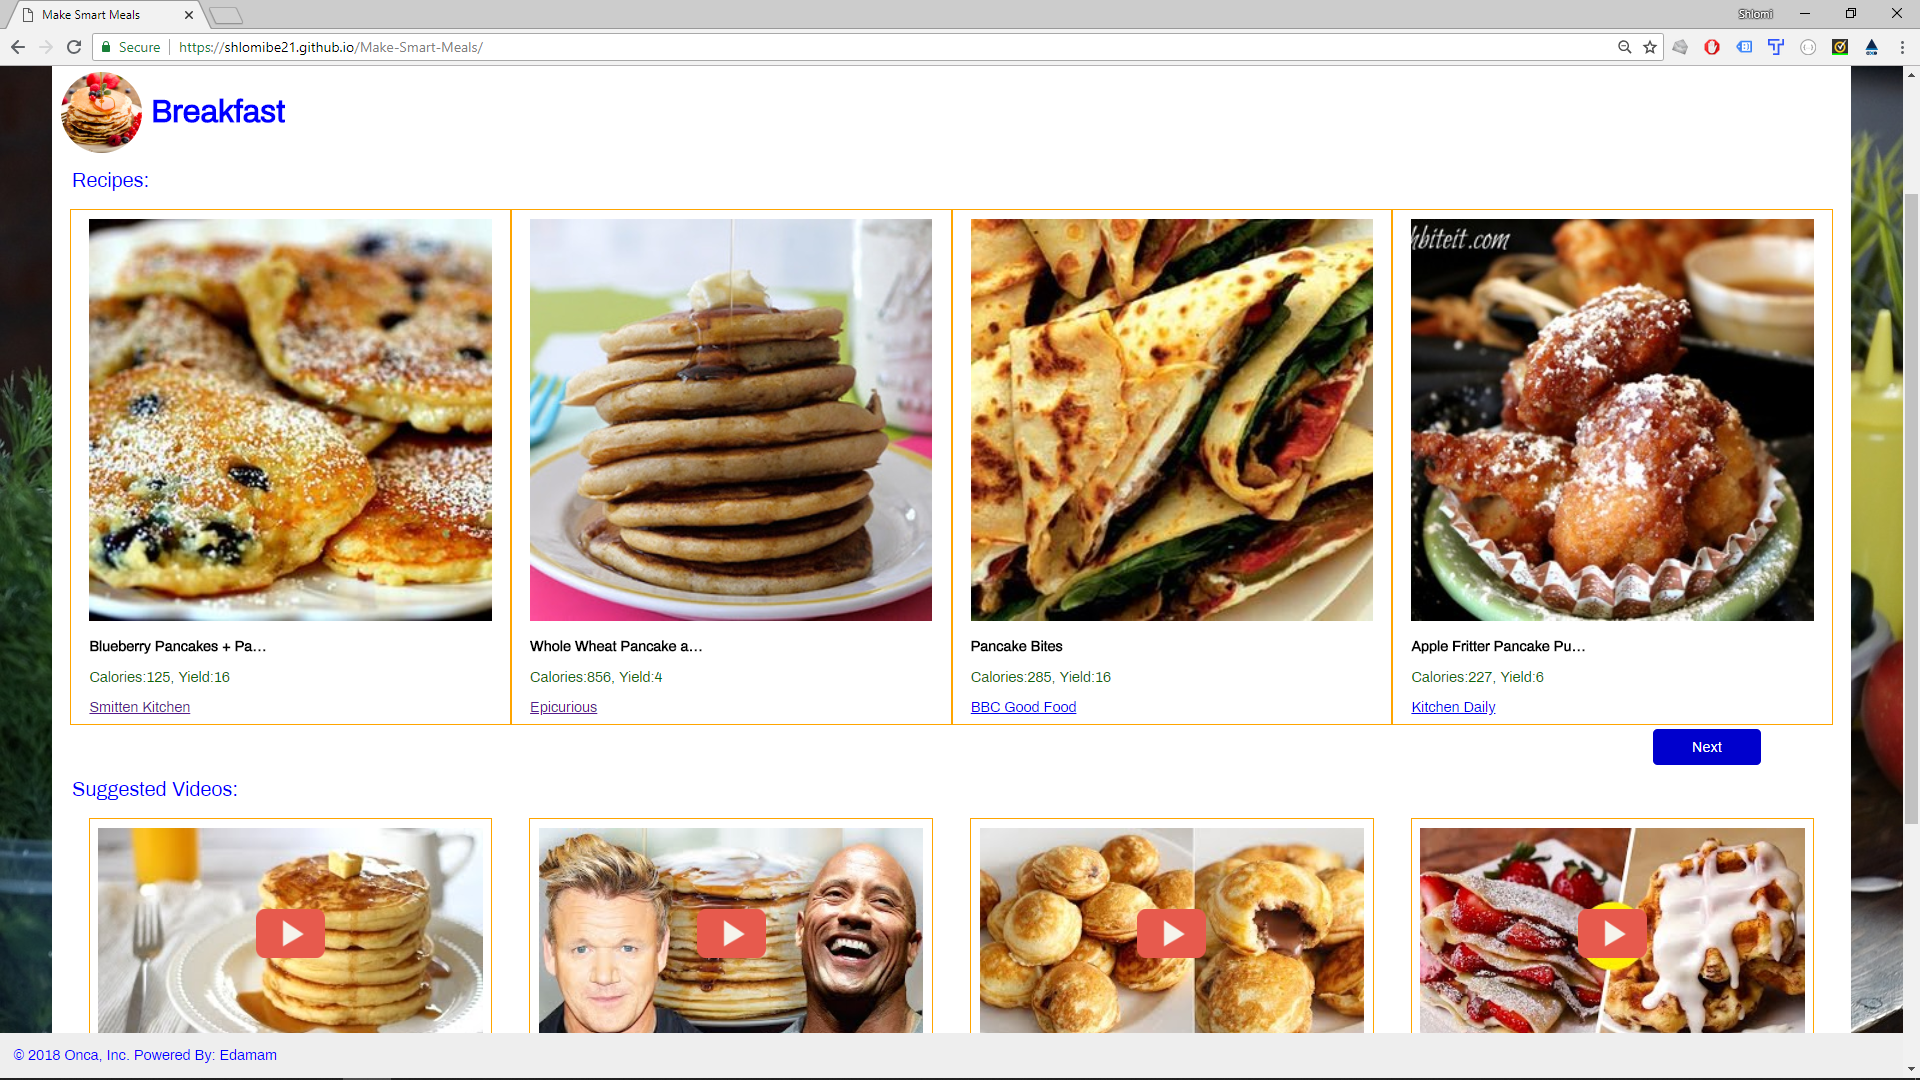
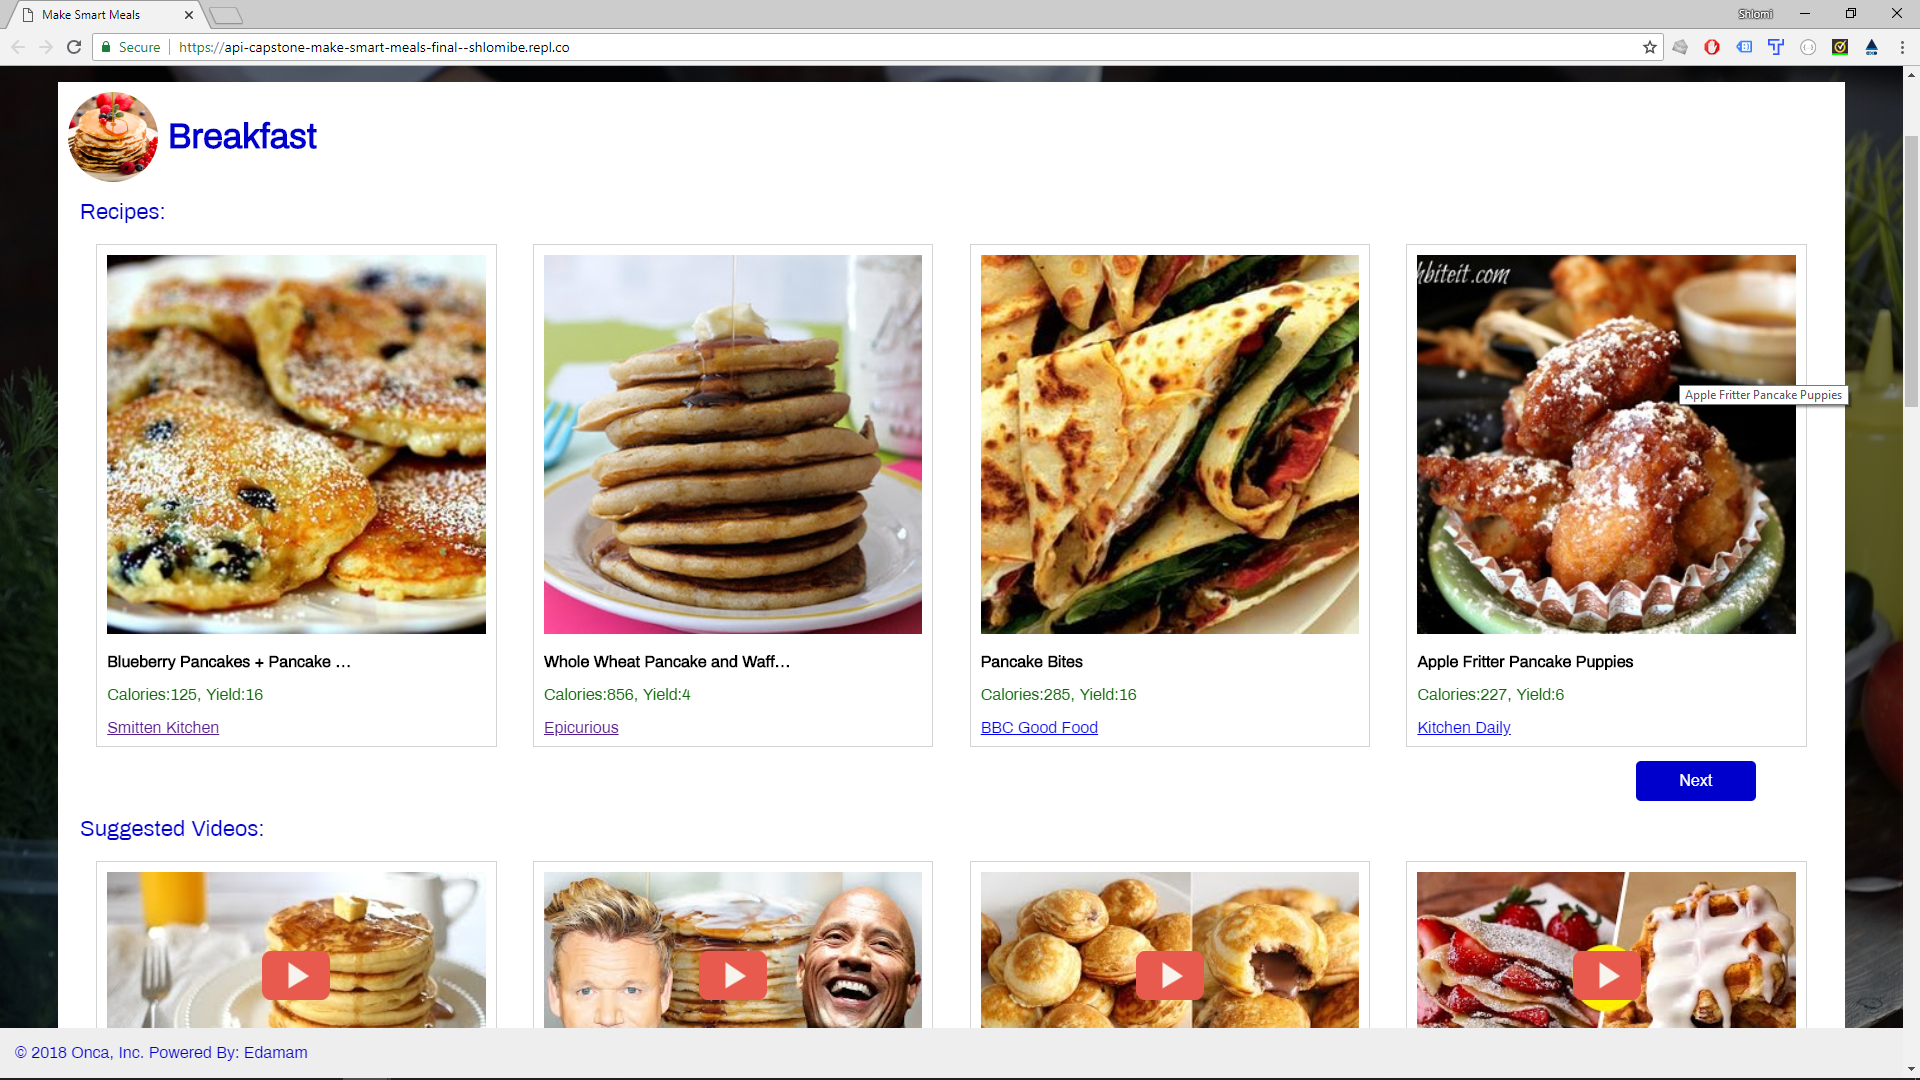
Made some minor design changes.

diff --git a/main.css b/main.css
@@ -5,7 +5,7 @@
 body {
 	font-family: 'Archivo', sans-serif;
 	margin-bottom: 100px;
-	background: url('Images/cook_2142960_1920.jpg') no-repeat center center fixed; 
+	background: linear-gradient(rgba(0, 0, 0, 0.5), rgba(0, 0, 0, 0.5)),url('Images/cook_2142960_1920.jpg') no-repeat center center fixed; 
 	background-position: 0px 0px;
 	background-size: cover;
 }
@@ -23,16 +23,17 @@ footer {
 footer p {    
 	display: inline-block;    
 	vertical-align: middle;
-	color: blue;
-}
-
-h1, h2, h3 {
-  	color: blue;
+	color: #0000CD;
 }
 
 h1 {
   	text-align: center;
-  	font-size: 3em;
+  	font-size: 3.5em;
+	color: white;
+}
+
+h2, h3 {
+	color: #0000CD;
 }
 
 .results-view {
@@ -44,20 +45,27 @@ h1 {
 }
 
 .thumbnail-div {
-	/*display: inline-block;*/
-	border: solid 1px orange;
+	border: solid 1px lightgrey; /*orange;*/
 	width: 100%;
 	padding: 10px;
 	margin-top: 20px;
-	margin-bottom: 50px;
+	margin-bottom: 60px;
 	background-color: white;
 }
 
 .thumbnail-div p {
-	width: 200px;
+	width: 250px;
 	white-space: nowrap;
 	text-overflow: ellipsis;
   	overflow: hidden;
+}
+
+.thumbnail-div recipe-img {
+	min-height: 400px;
+}
+
+.thumbnail-div video-img {
+	min-height: 350px;
 }
 
 .thumbnail img {
@@ -165,8 +173,6 @@ select {
   	margin-left: auto;
   	margin-right: auto;
 	padding: 20px;
-	border: solid 1px blue;
-    /*background: #eee;*/
 	background-color: rgba(230,230,230,0.6);
     overflow-x: hidden;
 }
@@ -208,7 +214,7 @@ select {
 #clear-search-fields {
 	width: 25%;
 	text-align: left;
-	color: blue;
+	color: #0000CD;
 	background: none;
 	margin: 0;
 	padding: 0;
@@ -233,7 +239,7 @@ select {
 	font-weight: bold;
 	margin-top: 35px;
 	/*margin-left: 20px;*/
-	color: blue;
+	color: #0000CD;
 }
 
 .meal-icon {
@@ -248,7 +254,7 @@ select {
 .introduction {
 	font-size: 20px;
 	font-weight: bold;
-	color: blue;
+	color: #0000CD;
 	text-align: center;
 }
 
@@ -267,7 +273,7 @@ select {
 
 .results-title {
 	font-size: 22px;
-	color: blue;
+	color: #0000CD;
 	margin-top: 10px;
 }
 

diff --git a/main.js b/main.js
@@ -185,22 +185,26 @@ function renderEdamamResult(result) {
 			newLabelStr = result.recipe.label.substring(0,30) + '...';
 		}*/
 		template = `
-			<div class="col-3 thumbnail-div">
+			<div class="col-3">
+			<div class="thumbnail-div recipe-img">
 			<a class="thumbnail" data-recipeUrl="${result.recipe.url}" title="${result.recipe.label}">	
 			<img src=${result.recipe.image} alt="${result.recipe.label}" tabindex="0"></a>
 			<p class="recipe-label">${newLabelStr}</P>
 			<p class="recipe-info">${infoTemplate}</p>
 			<a href="${result.recipe.url}" target="_blank">${result.recipe.source}</a>
 			</div>
+			</div>
 	  	`;
 	}
 	else { // In case of issue with results, display data not found message
 		template = `
-		<div class="col-3 thumbnail-div">
+		<div class="col-3">
+		<div class="thumbnail-div recipe-img">
 		<div class="thumbnail">
 		<img src="Images/warning-147699_640.png" alt="Data not found!"></a>
 		</div>
 		<p class="recipe-label">oops... recipe not found!</P>
+		</div>
 		</div>
 		`;		
 	}
@@ -301,7 +305,9 @@ function displayEdamamResults(data, meal, edamamFirstRecipeNum, edamamLastRecipe
 	// In case of no data display a message to user
 	if(data.count === 0) {
 		template = `
+		<div class="row">
 		<p>Sorry, we couldn't find any recipe!</p>
+		</div>
 		`;
 	}
 	else {
@@ -385,7 +391,7 @@ function getYouTubeDataFromApi(searchTerm, callback) {
 function renderYouTubeResult(result) {
 	return `
     <div class="col-3">
-	<div class="thumbnail-div">
+	<div class="thumbnail-div video-img">
 	<a class="thumbnail" data-videoId="${result.id.videoId}" title="${result.snippet
 			.title}">
 	<div class="youtube-img">

diff --git a/float-grid.css b/float-grid.css
@@ -90,4 +90,14 @@
 	.col-3 {
 		width: 25%;
 	}
+
+	.thumbnail-div p {
+		width: 180px;
+	}
+}
+
+@media only screen and (min-width: 1300px) {
+	.thumbnail-div p {
+		width: 250px;
+	}
 }
